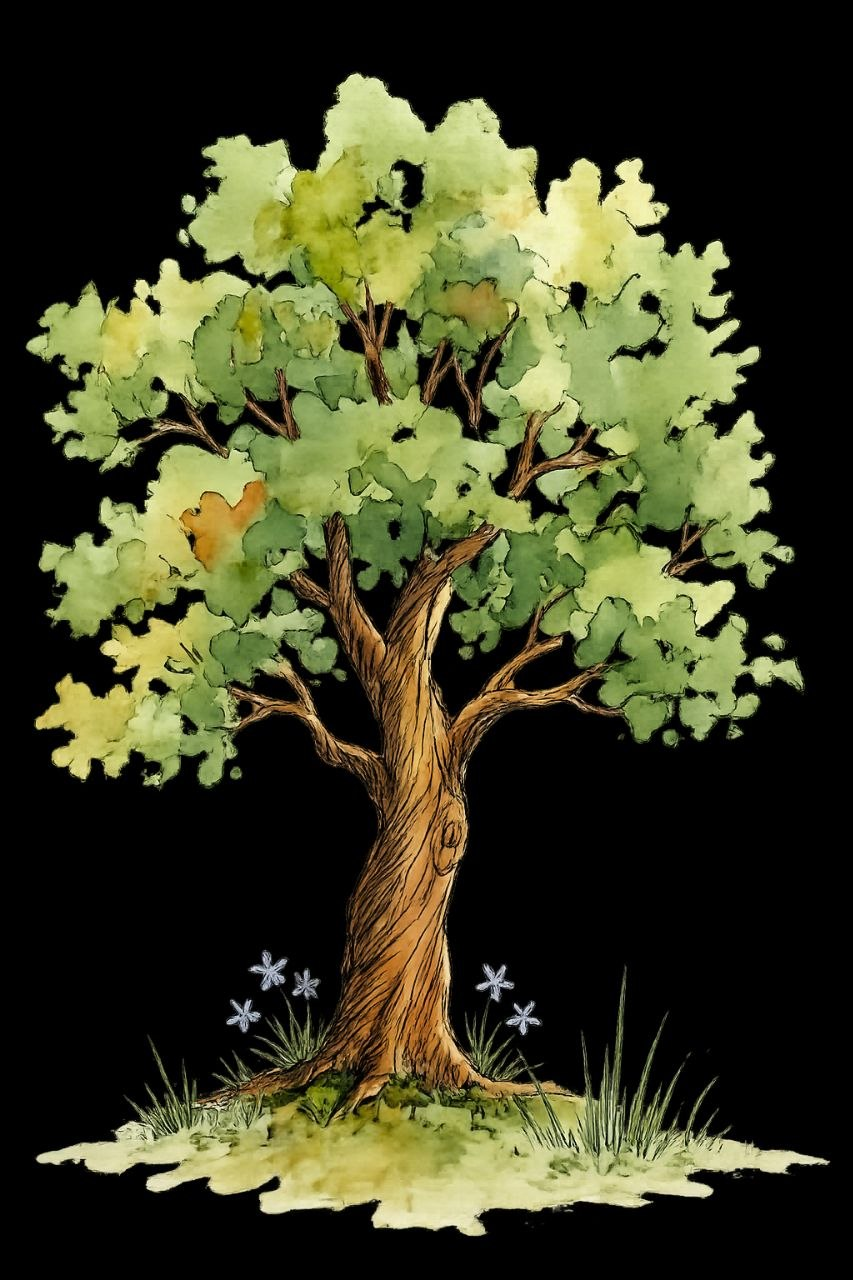
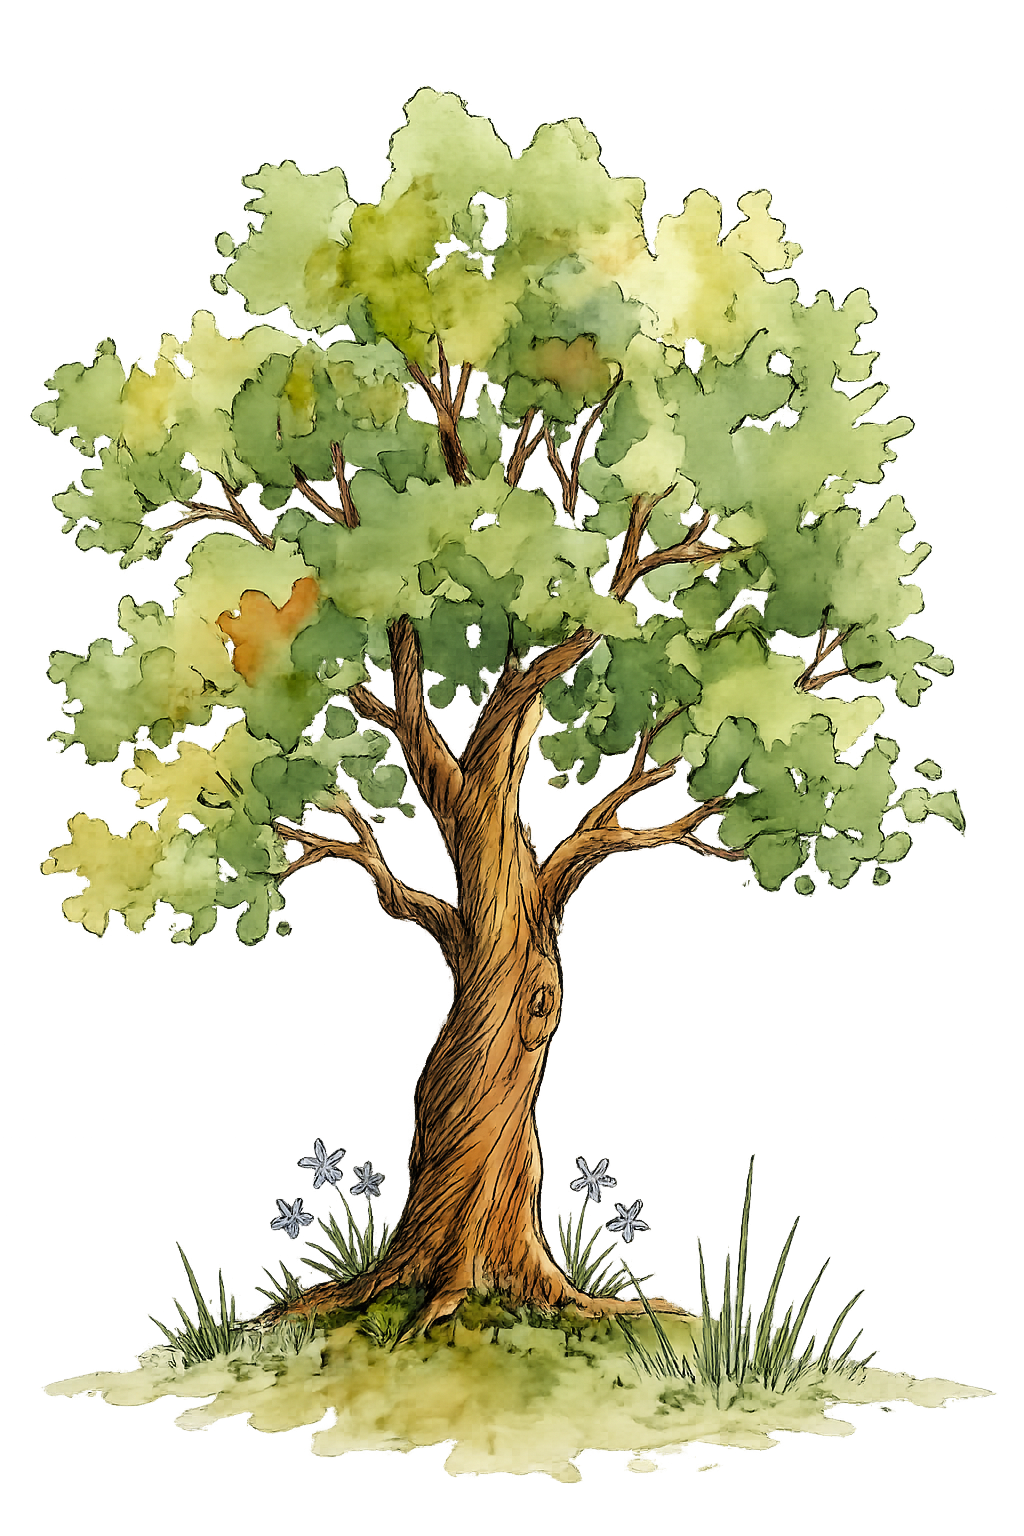
나무 이미지 투명 PNG로 교체

diff --git a/index.html b/index.html
@@ -3535,7 +3535,7 @@ function renderHabits(){
   const completedHabits=habits.filter(hab=>{const total=getHabitTotalDays(hab.id,hab.createdAt);return total>=66;}).length;
   const FRUITS=['🍎','🍊','🍋','🍇','🍑','🍒','🍓','🥝'];
   h+='<div style="text-align:center;margin-bottom:10px;position:relative">';
-  h+='<img src="tree.png" style="width:180px;height:auto;border-radius:16px;background:#fff;padding:8px">';
+  h+='<img src="tree.png" style="width:180px;height:auto">';
   if(completedHabits>0){
     h+='<div style="position:absolute;top:10px;left:50%;transform:translateX(-50%);width:100px;display:flex;flex-wrap:wrap;justify-content:center;gap:2px">';
     for(let i=0;i<completedHabits;i++)h+='<span style="font-size:18px">'+FRUITS[i%FRUITS.length]+'</span>';
